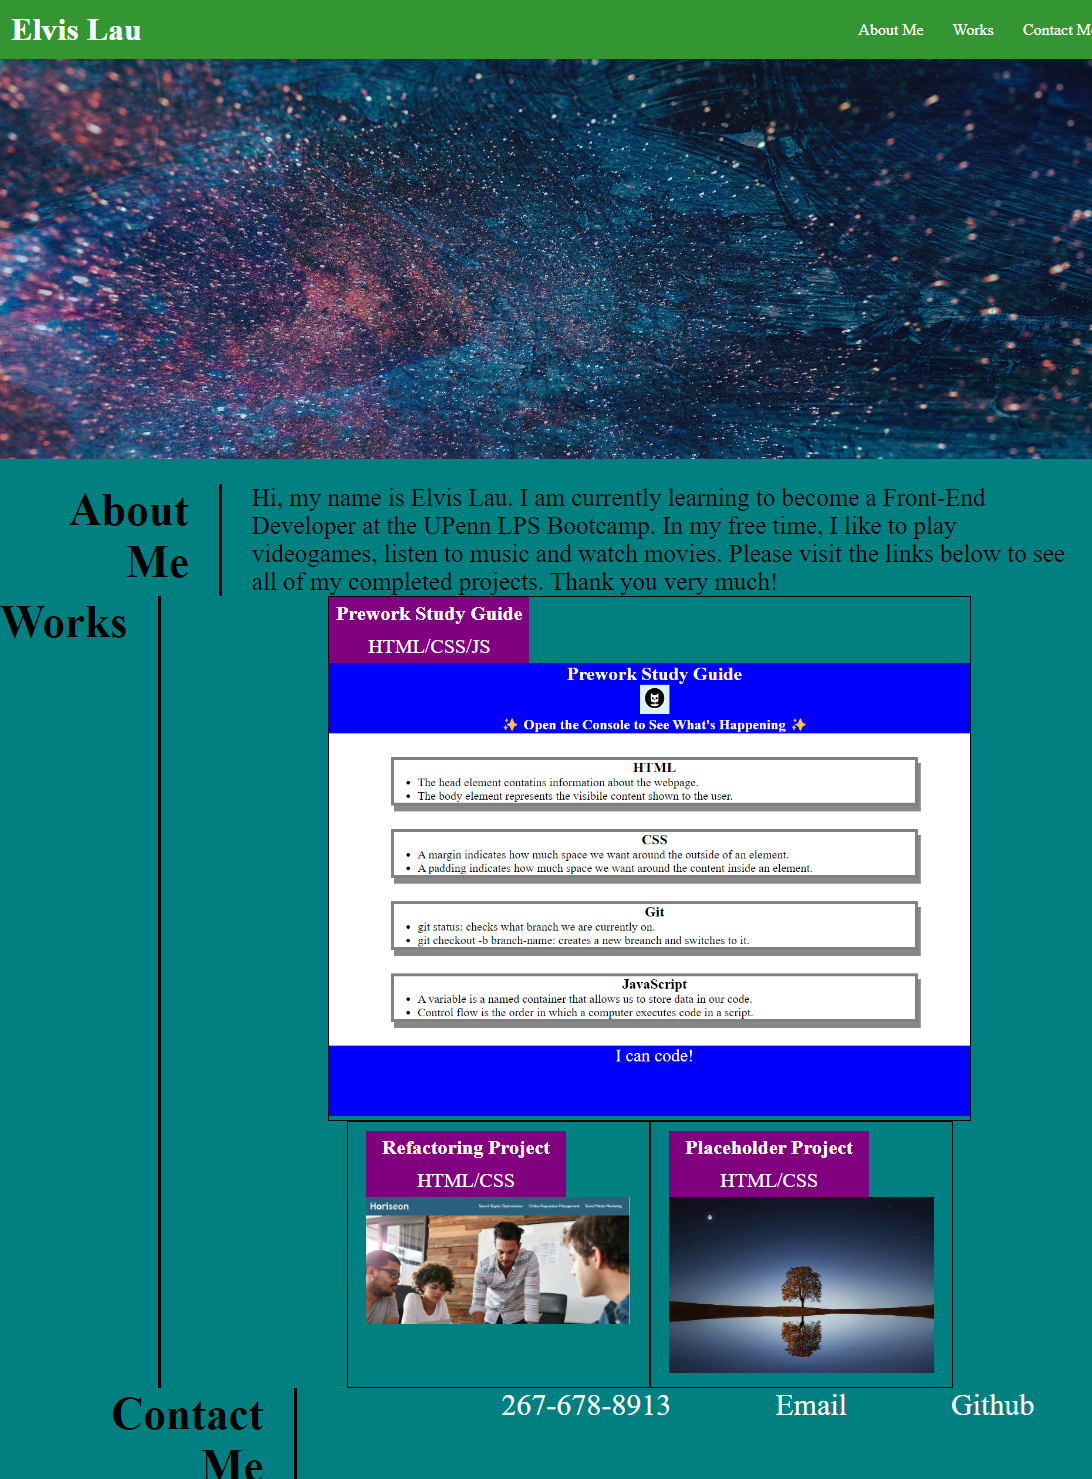
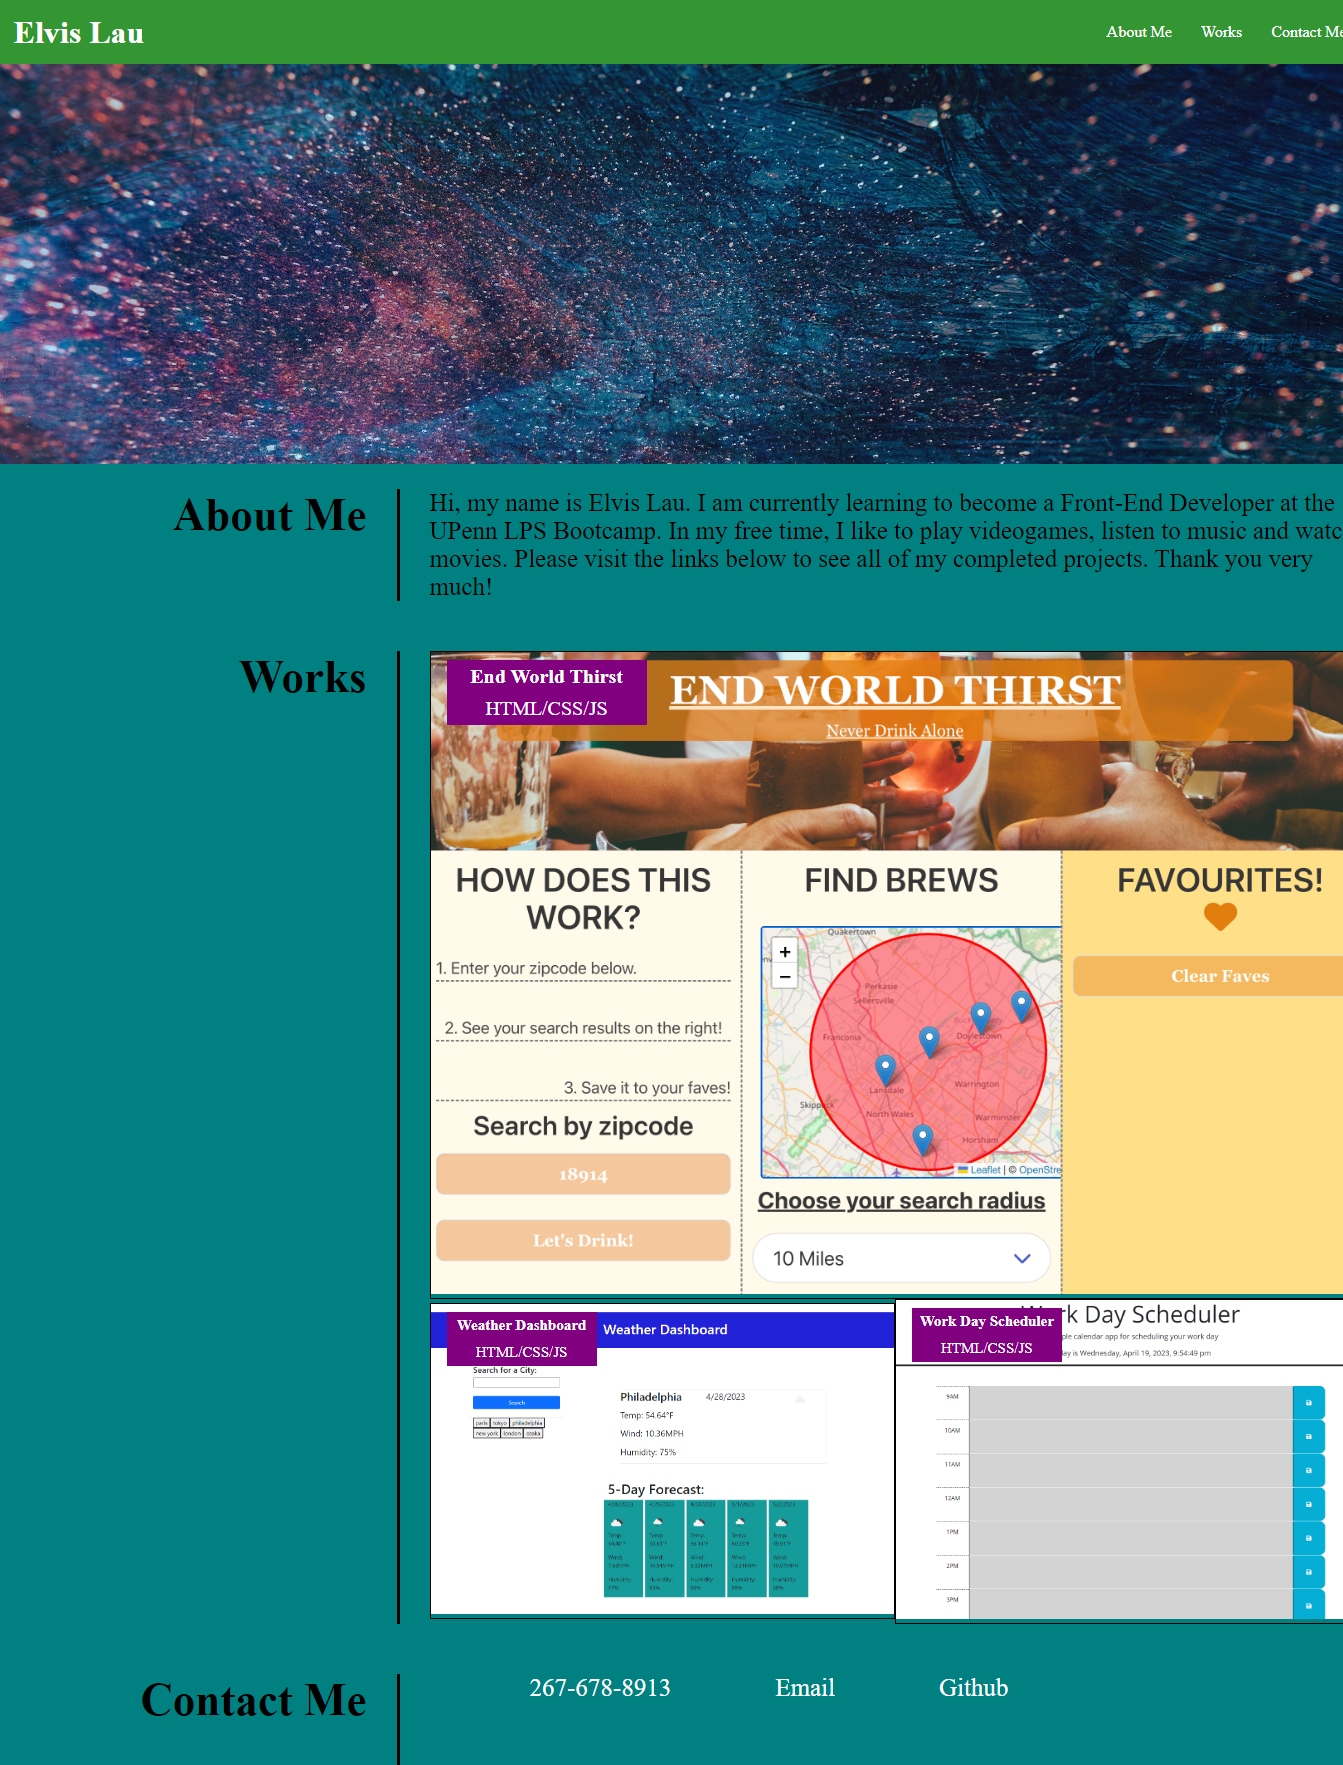
replace projects in works section and fix spacing of page

diff --git a/assets/css/main.css b/assets/css/main.css
@@ -46,30 +46,36 @@ main {
     flex-direction: column;
     justify-content: center;
     align-content: center;
+    width: 100%;
 }
 
 .projects-whole {
     display: flex;
-    flex-direction: column;
+    flex-wrap: wrap;
+    flex-direction: row;
     align-items: center;
+    width: 70%;
 }
 
-.projects-bottom-half {
+/* .projects-bottom-half {
     display: flex;
     flex-wrap: wrap;
     justify-content: center; 
-}
+    width: 100%;
+} */
 
 .works {
     display: flex;
     flex-direction: row;
     /* flex-wrap: wrap; */
     justify-content: center;
+    width: 100%;
+    margin-bottom: 50px;
 }
 
-.projects {
+/* .projects {
     flex: 0 1 33%;
-}
+} */
 
 section p{
     display: inline-block;
@@ -79,10 +85,18 @@ section p{
 .about-me {
     display:flex;
     flex-direction: row;
+    width: 100%;
+    margin-bottom: 50px;
+}
+
+
+
+.about-me p {
+    width: 70%;
 }
 
 .about-me h2, .works h2, .contact-me h2{
-    width: 20%;
+    width: 30%;
     border-right: black 3px solid;
     text-align: right;
     font-size: 45px;
@@ -93,7 +107,11 @@ section p{
 .contact-me ul li {
     display: inline-block;
     margin-left: 100px;
-    font-size: 30px;
+    font-size: 25px;
+}
+
+.contact-me ul {
+    width:70%;
 }
 
 footer {
@@ -101,54 +119,92 @@ footer {
     justify-content: space-evenly;
 }
 
+
+
 .first-assignment {
+    position: relative;
+    text-align: center;
     min-height: 100px;
     border: 1px solid black;
     /* padding: 1% 2%; */
-    width: 70%;
-    flex: 0 1 75%;
-}
-.placeholder, .second-assignment {
-    min-height: 200px;
-    border: 1px solid black;
-    padding: 1% 2%;
-    width: 30%;
-}
-
-.first-assignment h3, .first-assignment p{
-    padding: 5px;
-    background: purple;
-    color: #fff;
-    width: 200px;
-    font-size: 20px;
-    text-align: center;
-}
-
-.first-assignment img, .second-assignment img, .placeholder img{
     width: 100%;
+    /* flex: 0 1 75%; */
+}
+.second-assignment, .third-assignment {
+    position: relative;
+    text-align: center;
+    min-height: 100px;
+    border: 1px solid black;
+    width: 50%;
 }
 
-.placeholder h3, 
-.placeholder p,
-.second-assignment h3,
-.second-assignment p {
+/* .third-assignment{
+    height: 300px;
+} */
+
+.first-assignment p {
     padding: 5px;
     background: purple;
     color: #fff;
     width: 200px;
     font-size: 20px;
     text-align: center;
+    position: absolute;
+    top: 40px;
+    left: 16px;
+}
+
+.first-assignment h3{
+    padding: 5px;
+    background: purple;
+    color: #fff;
+    width: 200px;
+    font-size: 20px;
+    text-align: center;
+    position: absolute;
+    top: 8px;
+    left: 16px;
+}
+
+.first-assignment img, .second-assignment img, .third-assignment img{
+    width: 100%;
+    margin: 0px;
+    padding: 0px;
+}
+
+.second-assignment p,
+.third-assignment p {
+    padding: 5px;
+    background: purple;
+    color: #fff;
+    width: 150px;
+    font-size: 15px;
+    text-align: center;
+    position: absolute;
+    top: 35px;
+    left: 16px;
+}
+
+.second-assignment h3,
+.third-assignment h3 {
+    padding: 5px;
+    background: purple;
+    color: #fff;
+    width: 150px;
+    font-size: 15px;
+    text-align: center;
+    position: absolute;
+    top: 8px;
+    left: 16px;
 }
 
 @media screen and (max-width:767px){
     .about-me h2, .works h2, .contact-me h2{
-        width: 20%;
+        width: 50%;
         border: none;
         border-bottom: black 3px solid;
-        text-align: right;
         font-size: 45px;
-        margin-right: 30px;
-        padding-right: 30px;
+        margin-bottom: 20px;
         text-align: center;
     }
     .about-me, .works, .contact-me{
@@ -158,6 +214,10 @@ footer {
         display: flex;
         align-items: center;
         flex-direction: column;
+    }
+
+    .about-me p {
+        width: 90%;
     }
     .contact-me ul li {
         display: flex;
@@ -169,5 +229,15 @@ footer {
     header{
         display: flex;
         flex-direction: column;
+    }
+    .projects-whole {
+        display: flex;
+        flex-wrap: wrap;
+        flex-direction: column;
+        align-items: center;
+        width: 90%;
+    }
+    .second-assignment, .third-assignment {
+        width: 100%;
     }
 }

diff --git a/index.html b/index.html
@@ -38,51 +38,43 @@
             <h2>Works</h2>
             <div class="projects-whole">
                 <article class="first-assignment">
-                    <a href="https://elvislau74.github.io/prework-study-guide/">
-                    <h3>Prework Study Guide</h3>
-                    </a>
-                    <a href="https://elvislau74.github.io/prework-study-guide/">
+                    <a href="https://github.com/myrojoylee/end-world-thirst">
+                        <h3>End World Thirst</h3>
                         <p>HTML/CSS/JS</p>
-                    </a>
-                    <a href="https://elvislau74.github.io/prework-study-guide/">
-                        <img src="./assets/images/prework-study-guide.png" alt="image of 
-                        first project, my prework study guide"/>
+                        <img src="./assets/images/end-world-thirst-website.png" alt="image of 
+                        first project called end world thirst"/>
                     </a>
                 </article>
-                <div class="projects-bottom-half">
-                    <article class="projects second-assignment">
-                    <a href="https://elvislau74.github.io/factoring-in-refactoring/">
-                        <h3>Refactoring Project</h3>
+
+                <article class="projects second-assignment">
+                <a href="https://github.com/elvislau74/weather-dashboard">
+                    <h3>Weather Dashboard</h3>
+                    <p>HTML/CSS/JS</p>
+                    <img src="./assets/images/weather-dashboard-livesite.png" alt="image of 
+                    weather dashboard project"/>
+                </a>
+                </article>
+
+                <article class="projects third-assignment">
+                    <a href="https://github.com/elvislau74/work-day-scheduler">
+                        <h3>Work Day Scheduler</h3>
+                        <p>HTML/CSS/JS</p>
+                        <img src="./assets/images/work-day-scheduler-page.png" alt="image of
+                        third project, end world thirst page"/>
                     </a>
-                    <a href="https://elvislau74.github.io/factoring-in-refactoring/">
-                        <p>HTML/CSS</p>
-                    </a>
-                    <a href="https://elvislau74.github.io/factoring-in-refactoring/">
-                        <img src="./assets/images/horiseonrefactor.png" alt="image of 
-                        second project, the horiseon webpage"/>
-                    </a>
-                    </article>
-        
-                    <article class="projects placeholder">
-                        <a href="https://github.com/elvislau74"><h3>Placeholder Project</h3></a>
-                        <a href="https://github.com/elvislau74"><p>HTML/CSS</p></a>
-                        <a href="https://github.com/elvislau74">
-                            <img src="./assets/images/stock1.jpg" alt="stock image of big clear lake
-                            with a tree at the end. placeholder for future project"/></a>
-                    </article>
-                </div>
+                </article>
             </div>
         </section>
+        <footer id="contact-me" class="contact-me">
+            <h2>Contact Me</h2>
+            <ul>
+                <li><a href="tel:2676788913">267-678-8913</a></li>
+                <li><a href="mailto:elvislau74@gmail.com">Email</a></li>
+                <li><a href="https://github.com/elvislau74">Github</a></li>
+            </ul>
+        </footer>
     </main>
     
-    <footer id="contact-me" class="contact-me">
-        <h2>Contact Me</h2>
-        <ul>
-            <li><a href="tel:2676788913">267-678-8913</a></li>
-            <li><a href="mailto:elvislau74@gmail.com">Email</a></li>
-            <li><a href="https://github.com/elvislau74">Github</a></li>
-        </ul>
-    </footer>
 
 </body>
 </html>
